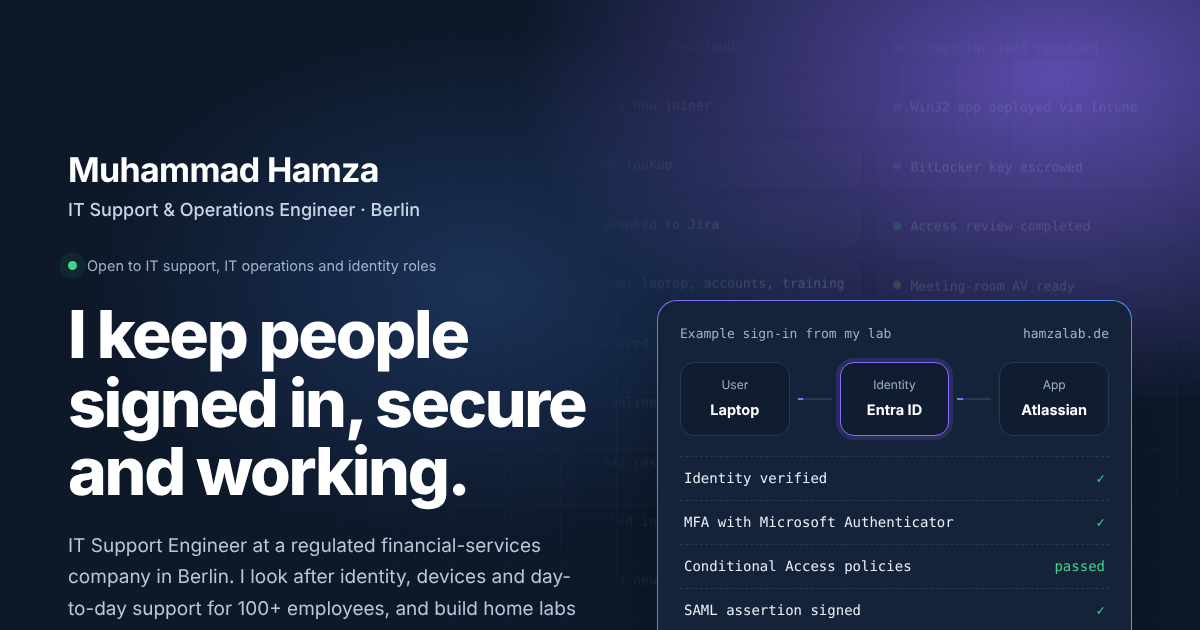
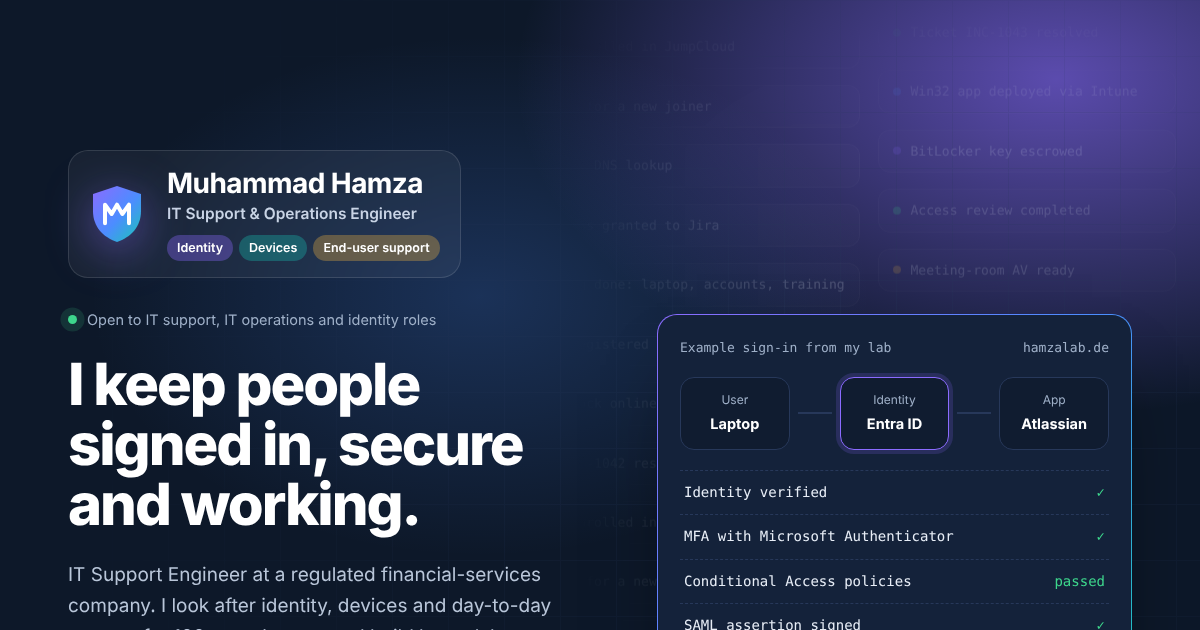
Add files via upload

diff --git a/index.html b/index.html
@@ -3,9 +3,9 @@
 <head>
 <meta charset="utf-8">
 <meta name="viewport" content="width=device-width, initial-scale=1">
-<title>Muhammad Hamza – IT Support &amp; Operations Engineer, Berlin</title>
-<meta name="description" content="IT Support Engineer in Berlin. Identity, devices and end-user support with Okta, Microsoft Entra ID, Intune and JumpCloud. Home labs on SSO and device management.">
-<meta property="og:title" content="Muhammad Hamza – IT Support &amp; Operations Engineer, Berlin">
+<title>Muhammad Hamza – IT Support &amp; Operations Engineer</title>
+<meta name="description" content="IT Support Engineer. Identity, devices and end-user support with Okta, Microsoft Entra ID, Intune and JumpCloud. Home labs on SSO and device management.">
+<meta property="og:title" content="Muhammad Hamza – IT Support &amp; Operations Engineer">
 <meta property="og:description" content="Identity, devices and end-user support. Home labs on single sign-on with Entra ID and device management with Intune.">
 <meta property="og:image" content="https://hamzalab.de/images/og.png">
 <meta property="og:url" content="https://hamzalab.de">
@@ -46,7 +46,7 @@ a:focus-visible{outline:3px solid var(--signal);outline-offset:3px;border-radius
 .avail{display:inline-flex;align-items:center;gap:10px;font-size:14.5px;color:var(--fog);margin-bottom:22px}
 .avail b{width:9px;height:9px;border-radius:50%;background:var(--ok);box-shadow:0 0 0 0 rgba(61,214,140,.6);animation:pulse 2.4s infinite}
 @keyframes pulse{70%{box-shadow:0 0 0 10px rgba(61,214,140,0)}100%{box-shadow:0 0 0 0 rgba(61,214,140,0)}}
-.hero h1{font-size:clamp(40px,5.6vw,66px);line-height:1.04;letter-spacing:-.035em;margin:0 0 24px;font-weight:800;color:#fff}
+.hero h1{font-size:clamp(34px,5vw,58px);line-height:1.04;letter-spacing:-.035em;margin:0 0 24px;font-weight:800;color:#fff}
 .hero .lead{font-size:19px;color:#B9C6D9;max-width:31em;margin:0 0 34px}
 .cta{display:flex;gap:14px;flex-wrap:wrap}
 .btn{display:inline-flex;align-items:center;gap:8px;padding:13px 22px;border-radius:12px;text-decoration:none;font-weight:700;font-size:15.5px;transition:transform .15s}
@@ -57,7 +57,13 @@ a:focus-visible{outline:3px solid var(--signal);outline-offset:3px;border-radius
 .facts div{font-size:14.5px;color:var(--fog)}
 .facts strong{display:block;color:#fff;font-size:22px;letter-spacing:-.01em}
 
-.who{margin-bottom:26px}.who strong{display:block;font-size:clamp(26px,3vw,34px);color:#fff;letter-spacing:-.02em;line-height:1.2}.who span{display:block;font-size:18px;color:#C9D4E5;margin-top:4px;font-weight:500}
+.who{display:flex;align-items:center;gap:18px;margin-bottom:26px;padding:16px 20px 16px 16px;border:1px solid rgba(255,255,255,.12);background:rgba(255,255,255,.05);border-radius:20px;width:fit-content;max-width:100%;backdrop-filter:blur(6px)}
+.who .avatar{width:64px;height:64px;flex:none;filter:drop-shadow(0 10px 22px rgba(139,107,255,.5))}
+.who strong{display:block;font-size:clamp(22px,2.6vw,28px);color:#fff;letter-spacing:-.02em;line-height:1.15}
+.who span{display:block;font-size:15.5px;color:#C9D4E5;margin-top:2px;font-weight:600}
+.roles{display:flex;flex-wrap:wrap;gap:6px;margin-top:8px}
+.roles em{font-style:normal;font-size:12.5px;font-weight:600;padding:3px 10px;border-radius:999px;color:#fff}
+.roles em:nth-child(1){background:rgba(139,107,255,.35)}.roles em:nth-child(2){background:rgba(25,198,182,.32)}.roles em:nth-child(3){background:rgba(245,183,64,.32)}
 
 /* animated IT activity in the hero background */
 .feed{position:absolute;top:0;bottom:0;right:0;width:52%;display:flex;gap:18px;justify-content:flex-end;padding-right:2%;pointer-events:none;overflow:hidden;-webkit-mask-image:linear-gradient(90deg,transparent,#000 35%),linear-gradient(transparent,#000 15%,#000 85%,transparent);-webkit-mask-composite:source-in;mask-image:linear-gradient(90deg,transparent,#000 35%),linear-gradient(transparent,#000 15%,#000 85%,transparent);mask-composite:intersect}
@@ -66,7 +72,7 @@ a:focus-visible{outline:3px solid var(--signal);outline-offset:3px;border-radius
 .feed li{display:flex;align-items:center;gap:10px;white-space:nowrap;font-family:var(--mono);font-size:13px;color:#DCE5F2;background:rgba(255,255,255,.06);border:1px solid rgba(255,255,255,.12);border-radius:12px;padding:10px 14px}
 .feed li i{width:8px;height:8px;border-radius:50%;flex:none}
 @keyframes drift{from{transform:translateY(0)}to{transform:translateY(-50%)}}
-@media (max-width:920px){.feed{width:100%}.feed .c2{display:none}.feed ul{opacity:.1}}
+@media (max-width:920px){.feed{display:none}}
 /* the signature: a sign-in flow */
 .flow{background:var(--night2);border:1px solid var(--edge);border-radius:20px;padding:22px;box-shadow:0 40px 80px -40px rgba(0,0,0,.8)}
 .flow .head{display:flex;justify-content:space-between;font-family:var(--mono);font-size:13px;color:var(--fog);margin-bottom:18px}
@@ -159,6 +165,8 @@ footer .wrap{display:flex;justify-content:space-between;flex-wrap:wrap;gap:12px}
   .contact{padding:40px 28px}
 }
 @media (max-width:560px){
+  .hero .lead{font-size:17px}.who{gap:14px;padding:14px}.who .avatar{width:52px;height:52px}
+ 
   .grid3,.skills,.edu{grid-template-columns:1fr}
   .wire{width:16px}
   .node{padding:10px 6px}.node strong{font-size:13px}
@@ -209,10 +217,10 @@ footer .wrap{display:flex;justify-content:space-between;flex-wrap:wrap;gap:12px}
 <main id="top">
 <div class="hero"><div class="feed" aria-hidden="true"><ul class="c1"><li><i style="background:#3DD68C"></i>Ticket INC-1042 resolved</li><li><i style="background:#4C8DFF"></i>MacBook enrolled in JumpCloud</li><li><i style="background:#8B6BFF"></i>MFA reset for a new joiner</li><li><i style="background:#F5B740"></i>VPN fixed: DNS lookup</li><li><i style="background:#19C6B6"></i>Okta access granted to Jira</li><li><i style="background:#3DD68C"></i>Onboarding done: laptop, accounts, training</li><li><i style="background:#8B6BFF"></i>Passkey registered</li><li><i style="background:#F5B740"></i>Printer back online</li><li><i style="background:#3DD68C"></i>Ticket INC-1042 resolved</li><li><i style="background:#4C8DFF"></i>MacBook enrolled in JumpCloud</li><li><i style="background:#8B6BFF"></i>MFA reset for a new joiner</li><li><i style="background:#F5B740"></i>VPN fixed: DNS lookup</li><li><i style="background:#19C6B6"></i>Okta access granted to Jira</li><li><i style="background:#3DD68C"></i>Onboarding done: laptop, accounts, training</li><li><i style="background:#8B6BFF"></i>Passkey registered</li><li><i style="background:#F5B740"></i>Printer back online</li></ul><ul class="c2"><li><i style="background:#FF6F91"></i>Leaver offboarded, device wiped</li><li><i style="background:#4C8DFF"></i>Conditional Access policy passed</li><li><i style="background:#19C6B6"></i>Wi-Fi issue solved: DHCP lease</li><li><i style="background:#3DD68C"></i>Ticket INC-1043 resolved</li><li><i style="background:#4C8DFF"></i>Win32 app deployed via Intune</li><li><i style="background:#8B6BFF"></i>BitLocker key escrowed</li><li><i style="background:#3DD68C"></i>Access review completed</li><li><i style="background:#F5B740"></i>Meeting-room AV ready</li><li><i style="background:#FF6F91"></i>Leaver offboarded, device wiped</li><li><i style="background:#4C8DFF"></i>Conditional Access policy passed</li><li><i style="background:#19C6B6"></i>Wi-Fi issue solved: DHCP lease</li><li><i style="background:#3DD68C"></i>Ticket INC-1043 resolved</li><li><i style="background:#4C8DFF"></i>Win32 app deployed via Intune</li><li><i style="background:#8B6BFF"></i>BitLocker key escrowed</li><li><i style="background:#3DD68C"></i>Access review completed</li><li><i style="background:#F5B740"></i>Meeting-room AV ready</li></ul></div><div class="wrap">
   <div>
-    <div class="who"><strong>Muhammad Hamza</strong><span>IT Support &amp; Operations Engineer · Berlin</span></div>
+    <div class="who"><svg class="avatar" viewBox="0 0 48 48" aria-hidden="true"><defs><linearGradient id="lg2" x1="0" y1="0" x2="1" y2="1"><stop offset="0" stop-color="#8B6BFF"/><stop offset=".55" stop-color="#4C8DFF"/><stop offset="1" stop-color="#19C6B6"/></linearGradient></defs><path d="M24 3 42 9v13c0 11.5-7.6 19.6-18 23C13.6 41.6 6 33.5 6 22V9z" fill="url(#lg2)"/><path d="M15 31V17l5 7 4-7 4 7 5-7v14" fill="none" stroke="#fff" stroke-width="3" stroke-linecap="round" stroke-linejoin="round"/></svg><div><strong>Muhammad Hamza</strong><span>IT Support &amp; Operations Engineer</span><div class="roles"><em>Identity</em><em>Devices</em><em>End-user support</em></div></div></div>
     <div class="avail"><b></b>Open to IT support, IT operations and identity roles</div>
     <h1>I keep people signed in, secure and working.</h1>
-    <p class="lead">IT Support Engineer at a regulated financial-services company in Berlin. I look after identity, devices and day-to-day support for 100+ employees, and build home labs to go deeper.</p>
+    <p class="lead">IT Support Engineer at a regulated financial-services company. I look after identity, devices and day-to-day support for 100+ employees, and build home labs to go deeper.</p>
     <div class="cta"><a class="btn main" href="#projects">See my projects</a><a class="btn line" href="resume.pdf" download>Download resume</a></div>
     <div class="facts">
       <div><strong>100+</strong>employees supported</div>
@@ -285,13 +293,13 @@ footer .wrap{display:flex;justify-content:space-between;flex-wrap:wrap;gap:12px}
 
 <section id="experience"><div class="wrap">
   <div class="title"><h2>Experience</h2><p>IT support across Germany and Pakistan since 2020.</p></div>
-  <div class="xp"><div class="when">Dec 2025 – present<br>Berlin</div><div class="what">
+  <div class="xp"><div class="when">Dec 2025 – present</div><div class="what">
     <h3>IT Support Engineer <span class="promo">Promoted</span></h3><p class="org">Finoa GmbH</p>
     <p>Okta SSO and MFA for 100+ employees, ServiceNow workflows that route tickets automatically, the company-wide Claude AI rollout, onboarding and offboarding, and the hardware lifecycle of a mixed macOS and Windows fleet in JumpCloud. Joined as an intern in September 2025.</p></div></div>
-  <div class="xp"><div class="when">Mar 2022 – Feb 2024<br>Bahawalpur</div><div class="what">
+  <div class="xp"><div class="when">Mar 2022 – Feb 2024</div><div class="what">
     <h3>IT Support Engineer</h3><p class="org">Enliven AI Solutions</p>
     <p>Network troubleshooting, Active Directory and Microsoft 365 administration, workstation support and Python reports that replaced manual log review.</p></div></div>
-  <div class="xp"><div class="when">Jan 2020 – Dec 2021<br>Islamabad</div><div class="what">
+  <div class="xp"><div class="when">Jan 2020 – Dec 2021</div><div class="what">
     <h3>IT Support Technician</h3><p class="org">Allied Schools</p>
     <p>Office network and printers, service desk and desktop support, staff onboarding and the IT knowledge base.</p></div></div>
 </div></section>
@@ -315,7 +323,7 @@ footer .wrap{display:flex;justify-content:space-between;flex-wrap:wrap;gap:12px}
 
 <section id="contact" style="padding-top:0"><div class="wrap">
   <div class="contact">
-    <div><h2>Let's talk.</h2><p>I'm looking for IT support, IT operations and identity roles in Berlin or remote. The quickest way to reach me is email.</p></div>
+    <div><h2>Let's talk.</h2><p>I'm looking for IT support, IT operations and identity roles, on-site or remote. The quickest way to reach me is email.</p></div>
     <div class="links">
       <a href="mailto:hamzaa.hashmii@gmail.com">Email<small>hamzaa.hashmii@gmail.com</small></a>
       <a href="https://www.linkedin.com/in/muhammad-hamza-9b2098296">LinkedIn<small>muhammad-hamza</small></a>
